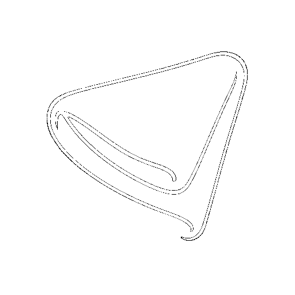
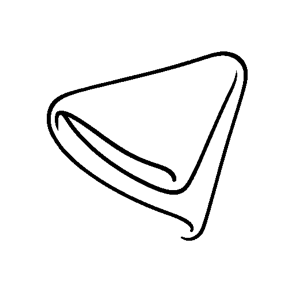
Логозвук: Ч и Ц — ч/б пяти рисунков с цветным контуром; кабачок «назовут иначе»
Поймано на ч/б-листе: у блинчика, пиццы, пуговицы, тумбочки и ленивца
генератор обвёл рисунок коричневым или синим, и снятие цвета унесло
контур вместе с заливкой — ч/б вышел почти пустой бумагой.

- imgbw.strip_colour(temny_kontur=…): цветной пиксель темнее порога тоже
  линия. По умолчанию выключено — прежний банк не меняется.
- tools/v_bank.py --temny-kontur; скрипт предупреждает, если чернил в ч/б
  меньше 2 %. Ч/б пяти рисунков снят заново с тех же цветных (порог 70,
  выбран глазами из 70/85/100); цвет не тронут.
- Кабачок помечен «назовут иначе»: от огурца его отличает только бледный
  цвет, а лабиринт по умолчанию ч/б.
- Отчёт словаря Ц: ласковое имя картинки (овечка, курочка, яичко) несёт [ч].

Changed region(s): [[0.2746, 0.1525, 0.8542, 0.8237], [0.1525, 0.3051, 0.7017, 0.6712]]

diff --git a/tools/v_bank.py b/tools/v_bank.py
@@ -26,11 +26,17 @@
     08-26: «спрайт своим белым фоном заслоняет дорожку») — и у цвета, и у ч/б;
   · существующий файл банка не перезаписывается без `--force`: перезаказ кладётся
     рядом в пробах, а в банк — по слову того, кто смотрел глазами.
+  · ⚠ ч/б смотреть глазами отдельно от цвета. 11-23 пять предметов пришли с цветным
+    контуром (коричневым, синим), и их ч/б вышел почти пустой бумагой — в цвете этого
+    не видно. Скрипт предупреждает, если чернил в ч/б меньше 2 %, но это подсказка, а
+    не проверка: бледный штрих ленивца (4 %) она пропускает. Лечится `--temny-kontur 70`
+    (цветной пиксель темнее порога — тоже линия), см. `imgbw.strip_colour`.
 
 Запуск:
     python3 tools/v_bank.py predmety pictures/probes/<дата>/objects чайник мяч
     python3 tools/v_bank.py geroi    pictures/probes/<дата>/geroi паровозик
     python3 tools/v_bank.py dorozhka pictures/probes/<дата>/vidy parovoz_1 parovoz_vagon
+    python3 tools/v_bank.py predmety pictures/probes/<дата>/objects пицца --force --temny-kontur 70
 """
 from __future__ import annotations
 
@@ -84,7 +90,16 @@ def _guard(dst: Path, force: bool) -> bool:
     return True
 
 
-def predmety(src_dir: Path, names, force: bool) -> None:
+def _strip(col: Path, bw: Path, kontur) -> None:
+    """Снять ч/б с цвета и сказать вслух, если линии почти не осталось."""
+    st = imgbw.strip_colour(col, bw, temny_kontur=kontur)
+    ink = st["line"] / max(1, sum(st.values()))
+    if ink < 0.02:
+        print(f"  ⚠ {bw.relative_to(ROOT)}: чернил в ч/б {ink:.1%} — контур цветной? "
+              "Смотреть глазами; лечится --temny-kontur 70")
+
+
+def predmety(src_dir: Path, names, force: bool, kontur=None) -> None:
     for n in names:
         src = src_dir / f"{n}.png"
         col, bw = PIC / "objects_colour" / f"{n}.png", PIC / "objects" / f"{n}.png"
@@ -92,20 +107,21 @@ def predmety(src_dir: Path, names, force: bool) -> None:
             continue
         _resize(src, col, OBJ_SIZE)
         _flatten_rgb(col)
-        imgbw.strip_colour(col, bw)
+        _strip(col, bw, kontur)
         _resize(col, PIC / "objects_colour" / "small" / f"{n}.png", OBJ_SMALL)
         _resize(bw, PIC / "objects" / "small" / f"{n}.png", OBJ_SMALL)
         print(f"  ✓ {n}: цвет и ч/б 512 + клетка 295")
 
 
-def _two_banks(src_dir: Path, names, col_dir: Path, bw_dir: Path, force: bool) -> None:
+def _two_banks(src_dir: Path, names, col_dir: Path, bw_dir: Path, force: bool,
+               kontur=None) -> None:
     for n in names:
         src = src_dir / f"{n}.png"
         col, bw = col_dir / f"{n}.png", bw_dir / f"{n}.png"
         if not _guard(col, force) or not _guard(bw, force):
             continue
         shutil.copyfile(src, col)
-        imgbw.strip_colour(col, bw)            # ч/б — с цвета, пока фон ещё белый
+        _strip(col, bw, kontur)                # ч/б — с цвета, пока фон ещё белый
         for f in (col, bw):
             print("  " + prozrachny_fon.strip_paper(f))
 
@@ -116,18 +132,21 @@ def main(argv=None) -> int:
     ap.add_argument("src", help="папка проб с <имя>.png")
     ap.add_argument("names", nargs="+")
     ap.add_argument("--force", action="store_true", help="перезаписать файл банка")
+    ap.add_argument("--temny-kontur", type=int, default=None, metavar="ЯРКОСТЬ",
+                    help="цветной пиксель темнее порога — тоже линия (11-23: 70)")
     a = ap.parse_args(argv)
     src = Path(a.src)
     missing = [n for n in a.names if not (src / f"{n}.png").exists()]
     if missing:
         print("нет в пробах:", ", ".join(missing), file=sys.stderr)
         return 1
+    k = a.temny_kontur
     if a.kind == "predmety":
-        predmety(src, a.names, a.force)
+        predmety(src, a.names, a.force, k)
     elif a.kind == "geroi":
-        _two_banks(src, a.names, PIC / "geroi", PIC / "geroi_bw", a.force)
+        _two_banks(src, a.names, PIC / "geroi", PIC / "geroi_bw", a.force, k)
     else:
-        _two_banks(src, a.names, PIC / "dorozhka" / "colour", PIC / "dorozhka" / "bw", a.force)
+        _two_banks(src, a.names, PIC / "dorozhka" / "colour", PIC / "dorozhka" / "bw", a.force, k)
     return 0
 
 

diff --git a/logoped_slovar/imgbw.py b/logoped_slovar/imgbw.py
@@ -129,20 +129,30 @@ def write_png_gray(path: Path, w: int, h: int, rows: list[bytes]) -> None:
         + chunk(b"IEND", b""))
 
 
-def strip_colour(src: Path, dst: Path, *, sat: int = 28, dark: int = 128) -> dict:
+def strip_colour(src: Path, dst: Path, *, sat: int = 28, dark: int = 128,
+                 temny_kontur: int | None = None) -> dict:
     """Снять заливки, оставив чёрную линию. → счётчик, что куда ушло.
 
     sat  — от какой насыщенности (max-min канала) пиксель считается ЗАЛИВКОЙ;
-    dark — ниже какой яркости ахроматический пиксель считается ЛИНИЕЙ.
+    dark — ниже какой яркости ахроматический пиксель считается ЛИНИЕЙ;
+    temny_kontur — если задан: цветной пиксель темнее этой яркости (0–255) тоже
+           ЛИНИЯ. ⚠ 11-23: генератор обвёл блинчик, пиццу, тумбочку и ленивца
+           коричневым, пуговицу синим — вопреки «контур чёрный» в промпте, — и
+           ч/б вышел пустой бумагой. Порог 70 вернул контур и не зачернил заливки
+           (проба глазами: 70 / 85 / 100). По умолчанию выключен: прежний банк
+           снимался без него.
     """
     w, h, rows = read_png(src)
     out, stat = [], {"line": 0, "fill": 0, "paper": 0}
+    lum_max = None if temny_kontur is None else temny_kontur * 1000
     for row in rows:
         line = bytearray(w)
         for x in range(w):
             r, g, b = row[x * 3], row[x * 3 + 1], row[x * 3 + 2]
             hi, lo = max(r, g, b), min(r, g, b)
-            if hi - lo >= sat:                 # цветное — это заливка, убираем
+            if hi - lo >= sat and lum_max is not None and r * 299 + g * 587 + b * 114 < lum_max:
+                line[x] = 0; stat["line"] += 1     # тёмный цветной контур — тоже линия
+            elif hi - lo >= sat:               # цветное — это заливка, убираем
                 line[x] = 255; stat["fill"] += 1
             elif lo < dark:                    # серо-чёрное и тёмное — это линия
                 line[x] = 0; stat["line"] += 1

diff --git a/logoped_slovar/gen_words_ch.py b/logoped_slovar/gen_words_ch.py
@@ -219,6 +219,9 @@ NAMED_AS_BASE = {
     "волчонок": "волк",
     # не уменьшительное, но то же правило: овчарку ребёнок назовёт «собака» — с [с]
     "овчарка": "собака",
+    # 11-23, по ч/б: от огурца кабачок отличает только бледный цвет (`_why` в
+    # objects_prompts.json), а лабиринт по умолчанию ч/б — там силуэт тот же, «огурец» с [ц]
+    "кабачок": "огурец",
 }
 for _w, _base in NAMED_AS_BASE.items():
     SVERKA.setdefault(_w, {})["ambiguous"] = True

diff --git a/DECISIONS.md b/DECISIONS.md
@@ -24,6 +24,15 @@
 («model does not exist»). Ближайший наследник `gpt-image-1.5` проверен пробой из трёх рисунков рядом с банком:
 контур, плоская заливка и «живой» герой держатся. Модель стала параметром `tools/gen_kartinki.py --model`.
 
+**Цветной контур: ч/б снят заново, а не перерисован (ночь на 24.11).** У пяти предметов из 35 генератор обвёл
+рисунок коричневым или синим, хотя промпт требует чёрного, и `strip_colour` снял контур вместе с заливкой: ч/б
+вышел почти пустой бумагой. В цвете этого не видно, поймано только на ч/б-листе. Закон 13 лечит такое
+перерисовкой, но перерисовка вышла бы за названный автору потолок и не обещает чёрного: модель уже не
+послушалась. Сделано как с толщиной линии (`imgbw.thicken`): правим механически то, чего модель не слушается.
+Цветной пиксель темнее яркости 70 тоже считается линией (`strip_colour(temny_kontur=…)`). Порог выбран глазами
+из 70 / 85 / 100: при 70 контур вернулся, заливки не почернели. Цвет не тронут ни в одном байте. По умолчанию
+ключ выключен: прежний банк снимался без него.
+
 ## 2026-11-23 · Поиск запросов логопедов: шаг «голова» отдан Клоду, проверка — опросом группы
 
 **Откуда.** Автор решил искать запросы логопедов по методу Site Builders 2.0 и строить под них виджеты и

diff --git a/logoped_slovar/words_ch_report.md b/logoped_slovar/words_ch_report.md
@@ -29,6 +29,8 @@
 - **Пропущено обоими разборами, поймано третьей проверкой:** уменьшительное, чья картинка называется
   БАЗОВЫМ словом без [ч] (огурчик → «огурец», яблочко → «яблоко»), в лабиринте заставило бы ребёнка
   сказать чужой звук. 24 таких слова помечены «назовут иначе» (`NAMED_AS_BASE`), в лабиринт не идут.
+  По тому же правилу, уже по рисункам, — ещё два: овчарка («собака») и кабачок (от огурца его отличает
+  только бледный цвет, а лабиринт по умолчанию ч/б).
 - **Поймано на собранном листе:** «ночь» стояла в категории «природа/время», и каркас печатал «Там калач
   и ночь» — перенесена в «природа/явления»; глаголы «чинит», «учит» без дополнения звучат обрывом —
   подлежащее у них снято.
@@ -63,7 +65,7 @@
 хуже недобора.
 
 ## Что за границей покрытия
-- Лабиринт: однозначных и знакомых слов 37, из них с [ч] в начале 6, в конце 3 — на клетки 3×3 этих
+- Лабиринт: однозначных и знакомых слов 35, из них с [ч] в начале 6, в конце 3 — на клетки 3×3 этих
   позиций не хватает; «в середине» — хватает.
 - «Посчитай 1-5» на листе [ч] не собирается никогда: в «пять» звучит мягкий [т].
 - Словосочетаний 7 вместо 9–12: прилагательных с [ч] в таблице сочетаемости шесть.

diff --git a/STATE.md b/STATE.md
@@ -55,7 +55,10 @@
   нет: в готовых мирах путь — «тропинка» (`scenes.py`; свой мир «железная дорога» — отдельный заказ, если автор
   захочет). Лабиринт Ч и Ц — только «в середине слова». **20 материалов Ч и Ц смотрены в PDF глазами, тесты
   зелёные.** В git двумя кусками: движок и словари увёз автослепок 21:00 (`ad9f816`), рисунки и остальное —
-  коммит «Логозвук: звуки Ч и Ц — рисунки, герои, банк дорожки». **Ждёт автора: проверка локально и
+  коммит «Логозвук: звуки Ч и Ц — рисунки, герои, банк дорожки». Ночью 24.11 по ч/б-листу поймано: у пяти
+  предметов контур цветной (блинчик, пицца, пуговица, тумбочка, ленивец), их ч/б был почти пустой бумагой —
+  снят заново с тех же цветных, без денег (`imgbw.strip_colour(temny_kontur=70)`, `tools/v_bank.py --temny-kontur`);
+  кабачок — «назовут иначе»: в ч/б его не отличить от огурца. Ч/б-лабиринты Ч и Ц смотрены. **Ждёт автора: проверка локально и
   «выкатываем».** На сайте Ч и Ц нет (проверено 23.11 ночью: 11 звуков); выкат увезёт их вместе со служебными
   страницами и гимнастикой — всё лежит в одном `main`.
   ⚠ Найдено попутно, правки общие для всех звуков — на слово автора: (1) в «Сочини сам» вопрос плана «Что было

diff --git a/logoped_slovar/words_ts_report.md b/logoped_slovar/words_ts_report.md
@@ -55,3 +55,7 @@
   сочетаемости. Канон этого не требует (у Спивак прилагательное в паре часто без звука), но наш материал
   берёт прилагательные только из словаря звука. Экран вкладку «Фраза» у [ц] не показывает.
 - Лабиринт: однозначных и знакомых слов 21; в конце слова — 5, на 9 клеток не хватает.
+- **Ласковое имя картинки** (11-23, по собранному ч/б-лабиринту): овцу ребёнок может назвать «овечка»,
+  курицу — «курочка», яйцо — «яичко», то есть сказать [ч]. Убрать такие слова значит убрать почти весь
+  лабиринт — чередование ц/ч в уменьшительных у [ц] сплошное. Держит задание: под клеткой подпись для
+  взрослого, и «следующий ход делать нельзя, пока слово не будет названо верно» (текст листа).
